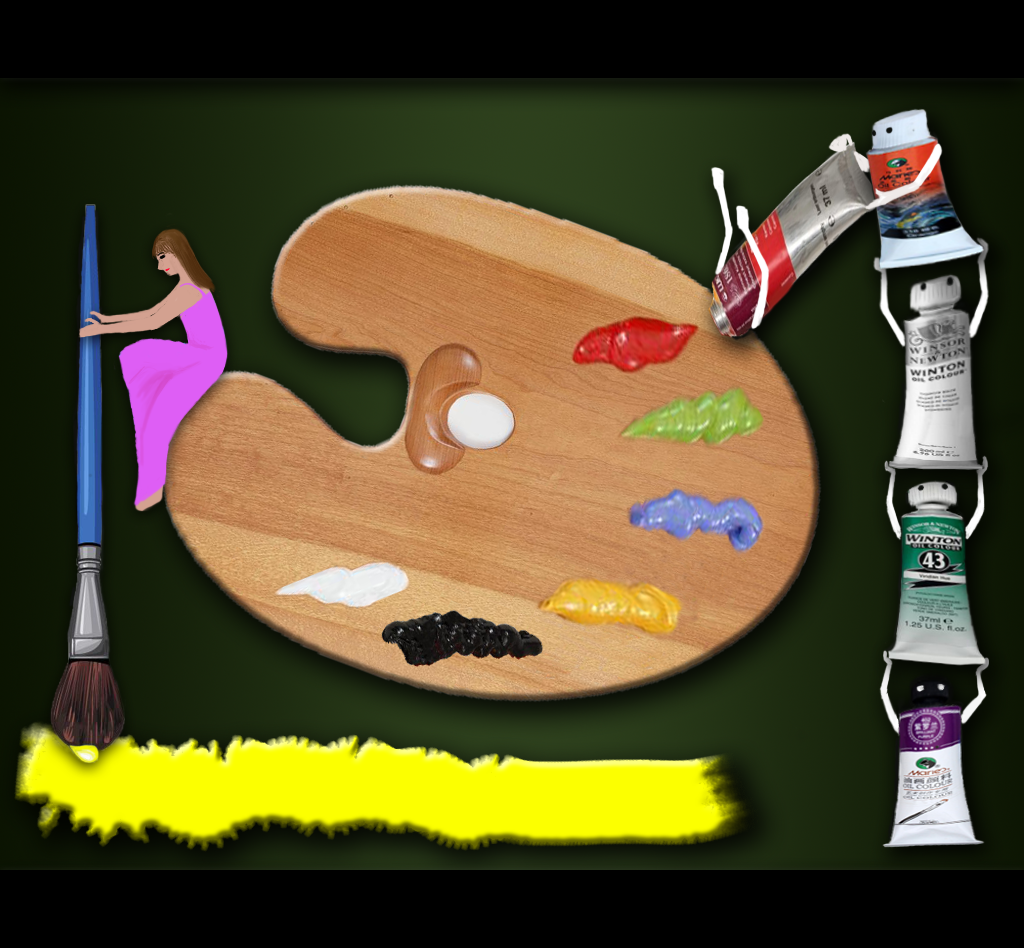
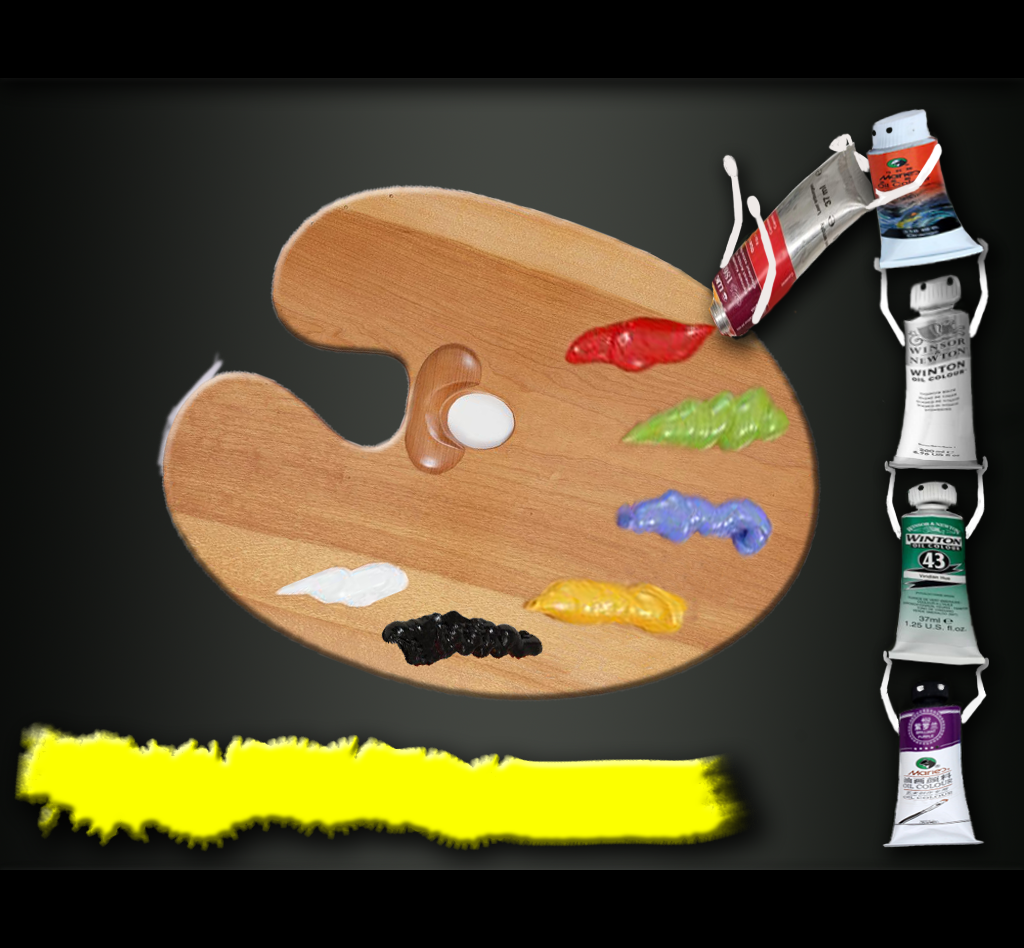
change styles

diff --git a/zoe/zoe.less b/zoe/zoe.less
@@ -91,6 +91,14 @@ body {
       background: url("zoe.png") center no-repeat;
     }
   }
+  .girl {
+    position: absolute;
+    left: 36px;
+    top: 190px;
+    width: 208px;
+    height: 588px;
+    background: url("girl.png") center no-repeat;
+  }
   .classa {
     position: absolute;
     left: 564px;
@@ -100,19 +108,21 @@ body {
     line-height: 80px;
     color: #ffffff;
     line-height: 80px;
-    font-size: 16px;
+    font-size: 18px;
     color: #ffffff;
+    font-family: Tekton Pro;
     text-align: center;
   }
   .classb {
     position: absolute;
-    left: 621px;
+    left: 645px;
     top: 381px;
     width: 140px;
     height: 80px;
     line-height: 80px;
-    font-size: 16px;
+    font-size: 18px;
     color: #ffffff;
+    font-family: Tekton Pro;
     text-align: center;
   }
   .classc {
@@ -122,8 +132,9 @@ body {
     width: 140px;
     height: 80px;
     line-height: 80px;
-    font-size: 16px;
+    font-size: 18px;
     color: #ffffff;
+    font-family: Tekton Pro;
     text-align: center;
   }
   .classd {
@@ -133,8 +144,9 @@ body {
     width: 140px;
     height: 80px;
     line-height: 80px;
-    font-size: 16px;
+    font-size: 18px;
     color: #ffffff;
+    font-family: Tekton Pro;
     text-align: center;
   }
   .classe {
@@ -144,8 +156,9 @@ body {
     width: 140px;
     height: 80px;
     line-height: 80px;
-    font-size: 16px;
+    font-size: 18px;
     color: #ffffff;
+    font-family: Tekton Pro;
     text-align: center;
   }
   .classf {
@@ -155,19 +168,20 @@ body {
     width: 140px;
     height: 80px;
     line-height: 80px;
-    font-size: 16px;
+    font-size: 18px;
     color: #000000;
+    font-family: Tekton Pro;
     text-align: center;
   }
   .words {
     position: absolute;
-    left: 147px;
-    top: 760px;
+    left: 120px;
+    top: 770px;
     width: 540px;
     height: 70px;
-    line-height: 35px;
-    font-size: 16px;
-    font-style: italic;
+    line-height: 20px;
+    font-size: 20px;
+    font-family: Tekton Pro;
   }
   .footer {
     position: absolute;
@@ -184,15 +198,16 @@ body {
       height: 80px;
       margin-left: 220px;
       line-height: 80px;
-      font-size: 14px;
+      font-size: 10px;
       color: #ffffff;
     }
     .names {
       float: right;
       height: 80px;
+      margin-top: 20px;
       margin-right: 220px;
-      line-height: 40px;
-      font-size: 14px;
+      line-height: 20px;
+      font-size: 10px;
       color: #ffffff;
     }
   }

diff --git a/zoe/zoe.css b/zoe/zoe.css
@@ -91,6 +91,14 @@ body {
   height: 135px;
   background: url("zoe.png") center no-repeat;
 }
+.container .girl {
+  position: absolute;
+  left: 36px;
+  top: 190px;
+  width: 208px;
+  height: 588px;
+  background: url("girl.png") center no-repeat;
+}
 .container .classa {
   position: absolute;
   left: 564px;
@@ -98,19 +106,21 @@ body {
   width: 140px;
   height: 80px;
   line-height: 80px;
-  font-size: 16px;
+  font-size: 18px;
   color: #ffffff;
+  font-family: Tekton Pro;
   text-align: center;
 }
 .container .classb {
   position: absolute;
-  left: 621px;
+  left: 645px;
   top: 381px;
   width: 140px;
   height: 80px;
   line-height: 80px;
-  font-size: 16px;
+  font-size: 18px;
   color: #ffffff;
+  font-family: Tekton Pro;
   text-align: center;
 }
 .container .classc {
@@ -120,8 +130,9 @@ body {
   width: 140px;
   height: 80px;
   line-height: 80px;
-  font-size: 16px;
+  font-size: 18px;
   color: #ffffff;
+  font-family: Tekton Pro;
   text-align: center;
 }
 .container .classd {
@@ -131,8 +142,9 @@ body {
   width: 140px;
   height: 80px;
   line-height: 80px;
-  font-size: 16px;
+  font-size: 18px;
   color: #ffffff;
+  font-family: Tekton Pro;
   text-align: center;
 }
 .container .classe {
@@ -142,8 +154,9 @@ body {
   width: 140px;
   height: 80px;
   line-height: 80px;
-  font-size: 16px;
+  font-size: 18px;
   color: #ffffff;
+  font-family: Tekton Pro;
   text-align: center;
 }
 .container .classf {
@@ -153,19 +166,20 @@ body {
   width: 140px;
   height: 80px;
   line-height: 80px;
-  font-size: 16px;
+  font-size: 18px;
   color: #000000;
+  font-family: Tekton Pro;
   text-align: center;
 }
 .container .words {
   position: absolute;
-  left: 147px;
-  top: 760px;
+  left: 120px;
+  top: 770px;
   width: 540px;
   height: 70px;
-  line-height: 35px;
-  font-size: 16px;
-  font-style: italic;
+  line-height: 20px;
+  font-size: 20px;
+  font-family: Tekton Pro;
 }
 .container .footer {
   position: absolute;
@@ -183,14 +197,15 @@ body {
   height: 80px;
   margin-left: 220px;
   line-height: 80px;
-  font-size: 14px;
+  font-size: 10px;
   color: #ffffff;
 }
 .container .footer .names {
   float: right;
   height: 80px;
+  margin-top: 20px;
   margin-right: 220px;
-  line-height: 40px;
-  font-size: 14px;
+  line-height: 20px;
+  font-size: 10px;
   color: #ffffff;
 }

diff --git a/zoe/index.html b/zoe/index.html
@@ -16,6 +16,7 @@
       <div class="works"><a class="alink" href="">WORKS</a></div>
       <div class="contact"><a class="alink" href="">CONTACT</a></div>
     </div>
+    <div class="girl"></div>
     <div class="classa"><a class="alink" href="">Oil paintings</a></div>
     <div class="classb"><a class="alink" href="">CG paintings</a></div>
     <div class="classc"><a class="alink" href="">Logo works</a></div>
